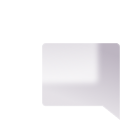
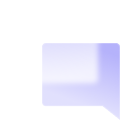
Work rows

Changed region(s): [[0.3429, 0.2857, 0.8571, 0.8286]]

diff --git a/components/AmazingWork.vue b/components/AmazingWork.vue
@@ -1,0 +1,125 @@
+<template>
+  <main id="amazing-work">
+    <h2 class="centered">Making something beautiful is my favorite thing</h2>
+    <p class="centered">
+      For decades, I've been crafting and creating wonderful online experiences for my clients. Here are some of my favorite projects.
+    </p>
+
+    <div class="image-row">
+      <div class="image-container top" ref="topRow">
+        <img v-for="(image, index) in imagesTop" :key="'top-' + index" :src="image" />
+        <img v-for="(image, index) in imagesTop" :key="'top-copy-' + index" :src="image" />
+      </div>
+    </div>
+    <div class="image-row">
+      <div class="image-container bottom" ref="bottomRow">
+        <img v-for="(image, index) in imagesBottom" :key="'bottom-' + index" :src="image" />
+        <img v-for="(image, index) in imagesBottom" :key="'bottom-copy-' + index" :src="image" />
+      </div>
+    </div>
+  </main>
+</template>
+
+<script>
+
+export default {
+  name: 'AmazingWork',
+  data() {
+    return {
+      imagesTop: [
+                '/products/doodledapp/contract-function-single.png', 
+                '/products/random-sandwich/random-sandwich-home.png',
+                '/products/doodledapp/contract-function-single.png', 
+                '/products/random-sandwich/random-sandwich-home.png',
+                '/products/doodledapp/contract-function-single.png', 
+                '/products/random-sandwich/random-sandwich-home.png',
+                '/products/doodledapp/contract-function-single.png', 
+                '/products/random-sandwich/random-sandwich-home.png',
+                '/products/doodledapp/contract-function-single.png', 
+                '/products/random-sandwich/random-sandwich-home.png',
+                '/products/doodledapp/contract-function-single.png', 
+                '/products/random-sandwich/random-sandwich-home.png', 
+              ],
+      imagesBottom: [
+                '/products/doodledapp/contract-function-single.png', 
+                '/products/random-sandwich/random-sandwich-home.png',
+                '/products/doodledapp/contract-function-single.png', 
+                '/products/random-sandwich/random-sandwich-home.png',
+                '/products/doodledapp/contract-function-single.png', 
+                '/products/random-sandwich/random-sandwich-home.png',
+                '/products/doodledapp/contract-function-single.png', 
+                '/products/random-sandwich/random-sandwich-home.png',
+                '/products/doodledapp/contract-function-single.png', 
+                '/products/random-sandwich/random-sandwich-home.png',
+                '/products/doodledapp/contract-function-single.png', 
+                '/products/random-sandwich/random-sandwich-home.png', 
+              ],
+    };
+  }
+}
+
+</script>
+
+<style scoped lang="scss">
+
+#amazing-work {
+  padding: 8rem 0;
+  background: linear-gradient(0deg, #f6f3f700 0%, #f6f3f7ff 5%, #f6f3f7ff 80%, #f6f3f700 100%);
+
+  h2 {
+    margin:0 auto 1rem;
+    max-width: 600px;
+    text-align: center;
+  }
+
+  p {
+    max-width: 600px;
+    margin: 1rem auto 4rem;
+    text-align: center;
+  }
+}
+
+.dark #amazing-work {
+  background: linear-gradient(0deg, rgba(34, 9, 50, 0) 0%, rgba(34, 9, 50, 1) 5%, rgba(34, 9, 50, 1) 80%, rgba(34, 9, 50, 0) 100%);
+}
+
+.image-row {
+  display: flex;
+  margin: 1rem 0 0;
+  overflow: hidden;
+  scroll-behavior: smooth;
+  padding-bottom:1rem;
+
+  img {
+    height:400px;
+    border-radius: 0.3rem;
+    box-shadow: rgba(0, 0, 0, 0.18) 0px 0.602187px 0.602187px -1.25px, rgba(0, 0, 0, 0.16) 0px 2.28853px 2.28853px -2.5px, rgba(0, 0, 0, 0.063) 0px 10px 10px -3.75px;
+  }
+}
+
+.image-container {
+  display: flex;
+  justify-content: center;
+  align-items: center;
+  gap: 2rem;
+
+  &.top {
+    animation: scrollRight 320s linear infinite;
+  }
+  
+  &.bottom {
+    animation: scrollLeft 320s linear infinite;
+  }
+}
+
+@keyframes scrollLeft {
+  0% { transform: translateX(0); }
+  100% { transform: translateX(-50%); }
+}
+
+@keyframes scrollRight {
+  0% { transform: translateX(-50%); }
+  100% { transform: translateX(0); }
+}
+
+</style>

diff --git a/components/HowItWorks.vue b/components/HowItWorks.vue
@@ -9,7 +9,7 @@
         <span>How it works</span>
       </div>
       <div class="box-main-sell">
-        <h2>Let's ensure your success</h2>
+        <h2>Ensure your success</h2>
       </div>
       <div class="box-convince-me">
         <p>I know that you want is to have a clear idea of what you are spending and getting in return, so the process is set up to prioritize your visibility and set predetermined costs.</p>
@@ -103,45 +103,16 @@
   </section>
 </template>
 
-<script>
-
-// export default {
-//   data() {
-//     return {
-//       previousBodyClass: ''
-//     };
-//   },
-//   mounted() {
-//     const observer = new IntersectionObserver(
-//       ([entry]) => {
-//         if (entry.isIntersecting) {
-//           this.previousBodyClass = document.body.className;
-//           document.body.classList.add('dark');
-//         } else {
-//           document.body.className = this.previousBodyClass;
-//         }
-//       },
-//       {
-//         root: null,
-//         rootMargin: '0px',
-//         threshold: 0.8
-//       }
-//     );
-
-//     observer.observe(this.$refs.howItWorks);
-//   }
-// }
-
-</script>
-
 <style scoped lang="scss">
 
 #how-it-works {
   padding:4rem 8rem;
   display: flex;
   flex-direction: row;
-  margin:0 auto 8rem;
-  background-color: white;
+  margin:0 auto;
+  background: linear-gradient(white, white) padding-box,
+                linear-gradient(to bottom, rgb(250, 241, 255), rgb(230, 210, 243)) border-box;
+  border: 1px solid transparent;
   position:relative;
   overflow: hidden;
   border-radius: 1.2rem;
@@ -160,9 +131,9 @@
   }
 }
 
-    .dark #how-it-works {
-      background-image: linear-gradient(125deg, rgb(44, 13, 63) 10%, rgb(44, 13, 63) 25%);
-    }
+.dark #how-it-works {
+  background-image: linear-gradient(125deg, rgb(44, 13, 63) 10%, rgb(44, 13, 63) 25%);
+}
 
 .box-super-title {
   display:flex;
@@ -220,7 +191,7 @@
       width:100px;
       height:100px;
       border-radius: 0.3rem;
-      background-color: rgb(34, 9, 50);
+      background-color: #0A00F1;
     }
 
     .step-title {
@@ -261,7 +232,7 @@
     width:100%;
     height:100%;
     position: relative;
-    transform: translate3d(0, 100px, 100px) rotate3d(3, -3, 0, 30deg);
+    transform: translate3d(0, 0px, -100px) rotate3d(3, -3, 0, 30deg);
     z-index: 2;
 
     .bubble {
@@ -335,10 +306,14 @@
     width:100%;
     height:100%;
     position: relative;
-    transform: translate3d(0, 0, -100px) rotate3d(3, -3, 0, 30deg);
+    transform: translate3d(0, -50px, -150px) rotate3d(3, -3, 0, 30deg);
     z-index: 1;
     perspective: 100em;
-    filter:blur(4px);
+    opacity:0.4;
+  }
+
+  .dark .layer-ui {
+    opacity: 1;
   }
 
   .fake-image {

diff --git a/pages/products/index.vue b/pages/products/index.vue
@@ -167,11 +167,11 @@ export default {
               z-index: 10;
               position: relative;    
               background:black;
-              /* background-image: url('/composition-bg.jpg'); */
+              background-image: url('/composition-bg.jpg');
               background-size: cover;
               background-position: center;
               background-repeat: no-repeat;
-              /* border:1px solid rgba(0,0,0,0.1); */
+              border:1px solid rgba(0,0,0,0.1);
               box-shadow: inset 0 0 6px 4px rgba(255, 255, 255, 0.1);
               overflow: hidden;
             }

diff --git a/pages/index.vue b/pages/index.vue
@@ -29,6 +29,7 @@
   <main>
     <Hero />
     <HowItWorks />
+    <AmazingWork />
   </main>
 </template>
 
@@ -37,6 +38,7 @@
 import { ref, reactive, watch, onMounted } from 'vue'
 import Hero from '/components/Hero.vue'
 import HowItWorks from '/components/HowItWorks.vue'
+import AmazingWork from '/components/AmazingWork.vue'
 
 export default {
   data(){
@@ -46,7 +48,8 @@ export default {
   },
   components: {
     Hero,
-    HowItWorks
+    HowItWorks,
+    AmazingWork
   },
   setup() {
     return {

diff --git a/components/Woosh.vue b/components/Woosh.vue
@@ -47,7 +47,7 @@ export default {
   justify-content:center;
   align-content: center;
   align-items: center;
-  pointer-events: none; /* Can't click on it */
+  pointer-events: none;
 }
 
     .rotateGroup {
@@ -58,6 +58,11 @@ export default {
       justify-content: center;
       align-items: center;
       animation: rotateGroupRotator 30s infinite;
+      opacity: 0.1;
+    }
+
+    .dark .rotateGroup {
+      opacity: 0.5;
     }
 
     .element {
